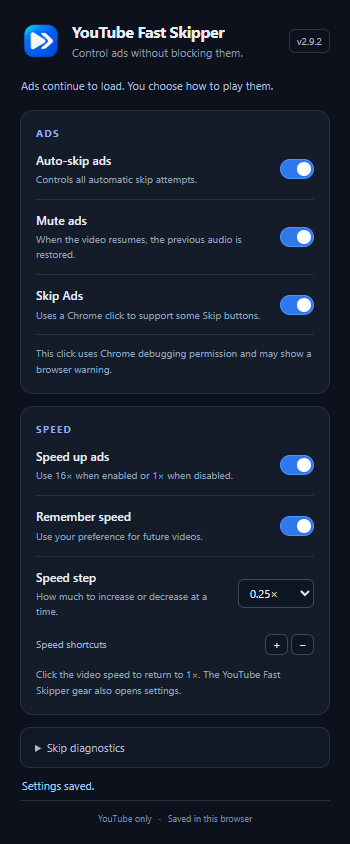
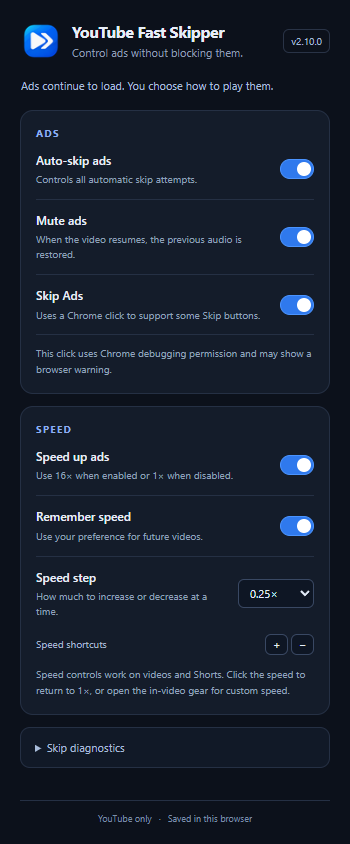
Add playback speed controls for YouTube Shorts

Changed region(s): [[0.0857, 0.7701, 0.8571, 0.8318], [0.0571, 0.9242, 0.2571, 0.955], [0.8, 0.0308, 0.9143, 0.0616]]

diff --git a/content.js b/content.js
@@ -27,7 +27,7 @@
   let trustedPending = false;
   let lastTrustedReason = 'mode-disabled';
   let lastSkipDiagnostics = {adDetected:false,playerFound:false,candidateCount:0,candidates:[],lastTarget:null};
-  const SCRIPT_VERSION = '2.9.2';
+  const SCRIPT_VERSION = '2.10.0';
   const clamp = n => Math.round(Math.min(16, Math.max(0.25, n)) * 100) / 100;
   const host = document.createElement('div');
   host.id = 'video-turbo-controls';
@@ -77,6 +77,25 @@
   const status = shadow.querySelector('.status');
   const customSpeed = shadow.getElementById('customSpeed');
   const isYouTube = /(^|\.)youtube(?:-nocookie)?\.com$/.test(location.hostname);
+  const isShortsRoute = () => /^\/shorts(?:\/|$)/.test(location.pathname);
+  const shortsCard = video => video?.closest('ytd-reel-video-renderer, yt-reel-video-renderer');
+  function markedActive(card) {
+    if (!card) return false;
+    let explicit=false;
+    for (const name of ['is-active','active','aria-current']) {
+      if (!card.hasAttribute(name)) continue;
+      explicit=true;
+      const value = (card.getAttribute(name) || '').trim().toLowerCase();
+      if (value === '' || !['false','0','off','no','none'].includes(value)) return true;
+    }
+    if (explicit) return false;
+    return card.classList.contains('is-active') || card.classList.contains('active');
+  }
+  function explicitlyInactive(card) {
+    if (!card) return false;
+    const names=['is-active','active','aria-current'].filter(name=>card.hasAttribute(name));
+    return names.length>0 && names.every(name=>['false','0','off','no','none'].includes((card.getAttribute(name)||'').trim().toLowerCase()));
+  }
   const isAd = () => isYouTube && !!active?.closest('.html5-video-player')?.matches('.ad-showing, .ad-interrupting');
   function restoreAdAudio() {
     if (!adAudio) return;
@@ -210,16 +229,33 @@
     for (let el=node; el; el=el.parentNode || el.host) if (el===parent) return true;
     return false;
   }
+  function visibleBounds(element) {
+    if (!element?.isConnected) return null;
+    const r=element.getBoundingClientRect();
+    let left=Math.max(r.left,0),top=Math.max(r.top,0),right=Math.min(r.right,innerWidth),bottom=Math.min(r.bottom,innerHeight);
+    let opacity=1;
+    for (let el=element; el; el=el.parentElement) {
+      const style=getComputedStyle(el);
+      if (el.hidden || style.visibility==='hidden' || style.display==='none') return null;
+      const alpha=Number.parseFloat(style.opacity);
+      if (Number.isFinite(alpha)) opacity*=alpha;
+      if (opacity<=0.01) return null;
+      const clipsX=!!style.overflow && style.overflow!=='visible' || !!style.overflowX && style.overflowX!=='visible';
+      const clipsY=!!style.overflow && style.overflow!=='visible' || !!style.overflowY && style.overflowY!=='visible';
+      if (el!==element && (clipsX || clipsY)) {
+        const clip=el.getBoundingClientRect();
+        if (clipsX) {left=Math.max(left,clip.left);right=Math.min(right,clip.right);}
+        if (clipsY) {top=Math.max(top,clip.top);bottom=Math.min(bottom,clip.bottom);}
+      }
+    }
+    return {left,top,right,bottom,opacity};
+  }
   function area(video) {
-    if (!video.isConnected || video.hidden) return 0;
-    const fs = fullscreen();
-    if (fs && !within(fs, video)) return 0;
-    const style = getComputedStyle(video);
-    if (style.visibility === 'hidden' || style.display === 'none' || style.opacity === '0') return 0;
-    const r = video.getBoundingClientRect();
-    const width = Math.max(0, Math.min(r.right, innerWidth) - Math.max(r.left, 0));
-    const height = Math.max(0, Math.min(r.bottom, innerHeight) - Math.max(r.top, 0));
-    return width * height;
+    if (!video?.isConnected) return 0;
+    const fs=fullscreen();
+    if (fs && !within(fs,video)) return 0;
+    const bounds=visibleBounds(video);
+    return bounds ? Math.max(0,bounds.right-bounds.left)*Math.max(0,bounds.bottom-bounds.top) : 0;
   }
   function position() {
     const fs = fullscreen();
@@ -229,11 +265,14 @@
     const topInset = 0;
     // Anchor the panel to the video so it does not move to the page header.
     const bar = progressVisibility();
-    const visible = bar.visible && active?.isConnected && area(active)>0 && rect.top>=0 &&
+    const shorts=isShortsRoute();
+    const card=shorts ? shortsCard(active) : null;
+    const bounds=shorts ? visibleBounds(active) : null;
+    const visible = (shorts ? !!card && !!bounds && bounds.right-bounds.left>=width+inset*2 && bounds.bottom-bounds.top>=24 : bar.visible && rect.top>=0) && active?.isConnected && area(active)>0 &&
       rect.top+topInset+24<=innerHeight && rect.width>=width+inset*2 &&
       fs?.tagName !== 'VIDEO' && (!fs || within(fs,active));
     host.style.setProperty('display', visible ? 'block' : 'none', 'important');
-    host.style.setProperty('opacity', String(bar.opacity), 'important');
+    host.style.setProperty('opacity', String(shorts ? bounds?.opacity || 0 : bar.opacity), 'important');
     if (!visible) {settingsPanel.hidden=true; gear.setAttribute('aria-expanded','false');}
     if (!active) return;
     const parent = fs && fs.tagName !== 'VIDEO' ? fs : document.documentElement;
@@ -242,8 +281,10 @@
     const scaleX = fs && base.width && fs.clientWidth ? fs.clientWidth/base.width : 1;
     const scaleY = fs && base.height && fs.clientHeight ? fs.clientHeight/base.height : 1;
     host.style.setProperty('position', fs ? 'absolute' : 'fixed', 'important');
-    host.style.setProperty('top', ((rect.top-base.top+topInset)*scaleY)+'px', 'important');
-    host.style.setProperty('left', ((rect.right-base.left-width-inset)*scaleX)+'px', 'important');
+    const shortsTop=shorts && bounds ? Math.max(bounds.top,Math.min(rect.top,bounds.bottom-24)) : rect.top;
+    const shortsLeft=shorts && bounds ? Math.max(bounds.left+inset,Math.min(rect.right-width-inset,bounds.right-width-inset)) : rect.right-width-inset;
+    host.style.setProperty('top', ((shortsTop-base.top+topInset)*scaleY)+'px', 'important');
+    host.style.setProperty('left', ((shortsLeft-base.left)*scaleX)+'px', 'important');
     host.style.setProperty('right', 'auto', 'important');
   }
   function discover(node) {
@@ -268,7 +309,7 @@
       if (changed) {syncAdAudio(); schedule();}
     });
     roots.set(root, observer);
-    observer.observe(root, {childList:true, subtree:true, attributes:true, attributeFilter:['class','style','hidden','disabled','aria-disabled','aria-hidden','inert']});
+    observer.observe(root, {childList:true, subtree:true, attributes:true, attributeFilter:['class','style','hidden','disabled','aria-disabled','aria-hidden','aria-current','is-active','active','inert']});
     discover(root);
     root.addEventListener('playing', schedule, true);
     root.addEventListener('pause', schedule, true);
@@ -532,7 +573,15 @@
     const visible = videos.filter(v => area(v) > 0);
     visible.sort((a,b) => Number(a.paused) - Number(b.paused) || area(b)-area(a));
     const main = location.pathname==='/watch' ? videos.find(v=>v.closest('#movie_player')) : null;
-    const next = main || (preferred && visible.includes(preferred) ? preferred : visible[0] || (active?.isConnected ? active : null));
+    let next;
+    if (isShortsRoute()) {
+      const shorts=visible.filter(video=>shortsCard(video));
+      shorts.sort((a,b)=>area(b)-area(a)||Number(a.paused)-Number(b.paused));
+      const marked=shorts.filter(video=>markedActive(shortsCard(video)));
+      const eligible=shorts.filter(video=>!explicitlyInactive(shortsCard(video)));
+      const pool=marked.length ? marked : eligible.length ? eligible : shorts;
+      next=pool[0] || null;
+    } else next = main || (preferred && visible.includes(preferred) ? preferred : visible[0] || (active?.isConnected ? active : null));
     if (next !== active) {
       active = next;
       if (active) apply(); else host.remove();
@@ -547,8 +596,8 @@
       video.addEventListener('ratechange', () => {
         if (video !== active) return;
         // Ads and their transitions may reset the player to 1×.
-        // Nesses momentos preservamos a escolha feita nos nossos controles.
-        if (isAd() || adBefore || adSettling || navigating) {apply(); return;}
+        // Preserve the speed chosen with our controls during these transitions.
+        if (isShortsRoute() || isAd() || adBefore || adSettling || navigating) {apply(); return;}
         const n = video.playbackRate;
         if (Number.isFinite(n) && n >= 0.25 && n <= 16 && Math.abs(n-desired)>0.001) {
           desired = clamp(n);

diff --git a/popup.html b/popup.html
@@ -2,7 +2,7 @@
 <html lang="en">
 <head><meta charset="utf-8"><meta name="viewport" content="width=device-width,initial-scale=1"><title>YouTube Fast Skipper</title><link rel="stylesheet" href="popup.css"></head>
 <body>
-  <header><img class="brand-icon" src="icons/icon48.png" alt=""><div><h1>YouTube Fast Skipper</h1><p>Control ads without blocking them.</p></div><span class="version">v2.9.2</span></header>
+  <header><img class="brand-icon" src="icons/icon48.png" alt=""><div><h1>YouTube Fast Skipper</h1><p>Control ads without blocking them.</p></div><span class="version">v2.10.0</span></header>
   <p class="intro">Ads continue to load. You choose how to play them.</p>
   <section>
     <h2>Ads</h2>
@@ -17,7 +17,7 @@
     <label class="row"><span><strong>Remember speed</strong><small>Use your preference for future videos.</small></span><input id="remember" type="checkbox"></label>
     <label class="row"><span><strong>Speed step</strong><small>How much to increase or decrease at a time.</small></span><select id="step"><option value="0.05">0.05×</option><option value="0.1">0.10×</option><option value="0.25">0.25×</option><option value="0.5">0.50×</option><option value="1">1.00×</option></select></label>
     <div class="shortcut"><span>Speed shortcuts</span><span><kbd>+</kbd> <kbd>−</kbd></span></div>
-    <p class="note">Click the video speed to return to 1×. The YouTube Fast Skipper gear also opens settings.</p>
+    <p class="note">Speed controls work on videos and Shorts. Click the speed to return to 1×, or open the in-video gear for custom speed.</p>
   </section>
   <details id="diagnosticDetails"><summary>Skip diagnostics</summary><div class="diagnostic-body">
     <p id="skipStatus" class="note">Waiting for a YouTube tab.</p>

diff --git a/README.md b/README.md
@@ -30,6 +30,7 @@ impact on monetization when skipping or speeding up ads.
 - Lets you choose between **16×** ad playback and normal **1×** playback.
 - Restores your preferred content speed after each ad.
 - Controls playback from **0.25× to 16×**, with shortcuts and saved preferences.
+- Supports **YouTube Shorts**, with controls that follow the active Short as you scroll.
 - Offers settings in the Chrome toolbar popup and the gear inside the video.
 - Includes a copyable diagnostic report to help investigate skipping issues.
 
@@ -75,7 +76,19 @@ In the video panel, `<<` and `>>` adjust speed. Clicking the speed value resets
 it to 1×. The gear includes a custom speed field. During ads, these adjustments
 set the speed to restore when content resumes. Use `+` or `=` to increase speed
 and `-` to decrease it; shortcuts are ignored in text fields. The panel follows
-the visibility of YouTube's native progress bar.
+the visibility of YouTube's native progress bar on regular videos.
+
+## YouTube Shorts
+
+Open a Short on `www.youtube.com/shorts/`. The speed controls appear on the
+active video even when the regular YouTube progress bar is unavailable. Use
+`<<`, `>>`, the custom speed field in the gear menu, or the `+` / `-` shortcuts
+to adjust playback from **0.25× to 16×**. Click the speed value to return to 1×.
+
+The selected speed carries over as you scroll to the next Short, including when
+YouTube reuses the same video element. Regular videos and Shorts share the same
+speed preference; **Remember speed** saves it for future pages. Controls target
+the active Short rather than preloaded videos in the feed.
 
 ## Why does a debugging banner appear?
 
@@ -130,14 +143,14 @@ npm test
 python scripts/package.py
 ```
 
-The installable ZIP is written to `dist/youtube-fast-skipper-2.9.2.zip`.
+The installable ZIP is written to `dist/youtube-fast-skipper-2.10.0.zip`.
 Packaging uses an explicit file list to keep tests, dependencies, and personal
 files out of the installable package. No build step is needed to run the extension.
-`dist/youtube-fast-skipper-source-2.9.2.zip` contains the source and documentation
+`dist/youtube-fast-skipper-source-2.10.0.zip` contains the source and documentation
 for sharing on GitHub, without installed dependencies or local Git history.
 
 Tests cover audio restoration, button selection, retries, worker checks,
-preferences, and interfaces. They run locally with simulated DOM and browser
+preferences, Shorts navigation, and interfaces. They run locally with simulated DOM and browser
 APIs; passing tests alone does not prove the outcome on real ads. After player
 changes, manually verify skipping, audio, and playback speed on YouTube.
 

diff --git a/CONTRIBUTING.md b/CONTRIBUTING.md
@@ -33,6 +33,8 @@ After updating the extension and refreshing the page, manually check:
 3. Speed up ads enabled and disabled, including toggling during an ad.
 4. An enabled Skip button, a countdown, and consecutive ads.
 5. Settings staying synchronized between the popup and the in-video gear.
+6. Shorts speed controls with no regular progress bar, scrolling to the next
+   Short, reusing a video element, and returning to a regular video.
 
 ## Publishing on GitHub
 

diff --git a/CHANGELOG.md b/CHANGELOG.md
@@ -1,5 +1,12 @@
 # Changelog
 
+## 2.10.0 — 2026-10-22
+
+- Added playback speed controls for YouTube Shorts.
+- Controls follow the active Short without relying on the regular progress bar.
+- Preserved the selected speed across Shorts navigation and video element reuse.
+- Added regression coverage for Shorts selection, visibility, and speed controls.
+
 ## 2.9.2 — 2026-10-21
 
 - English interface, accessibility labels, status messages, and diagnostics.
